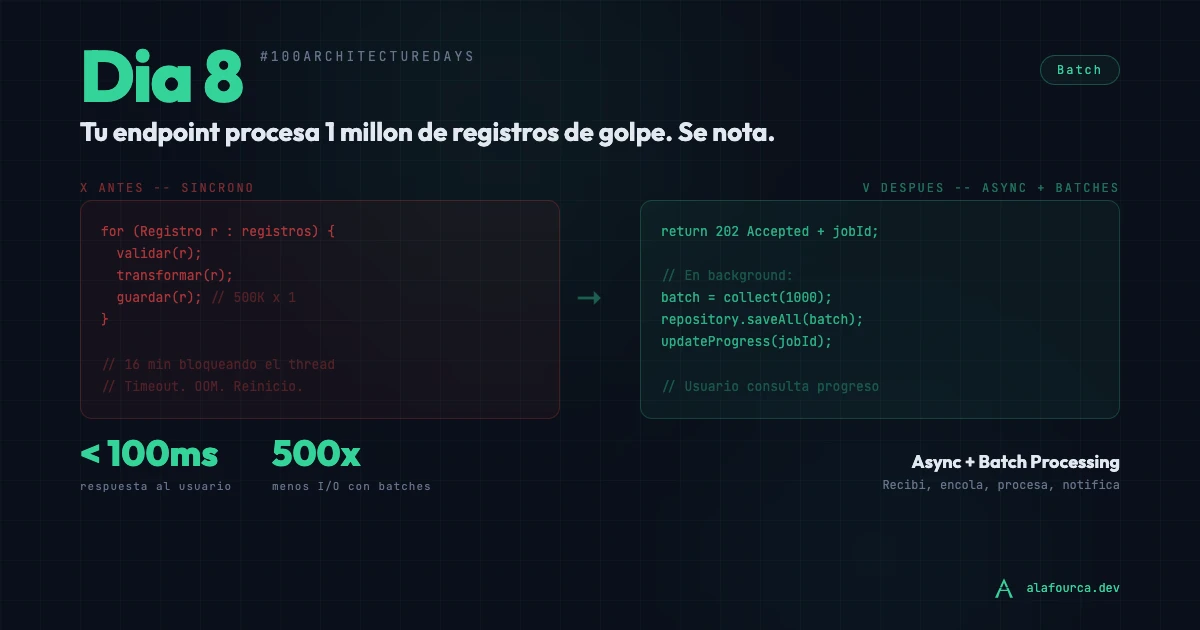
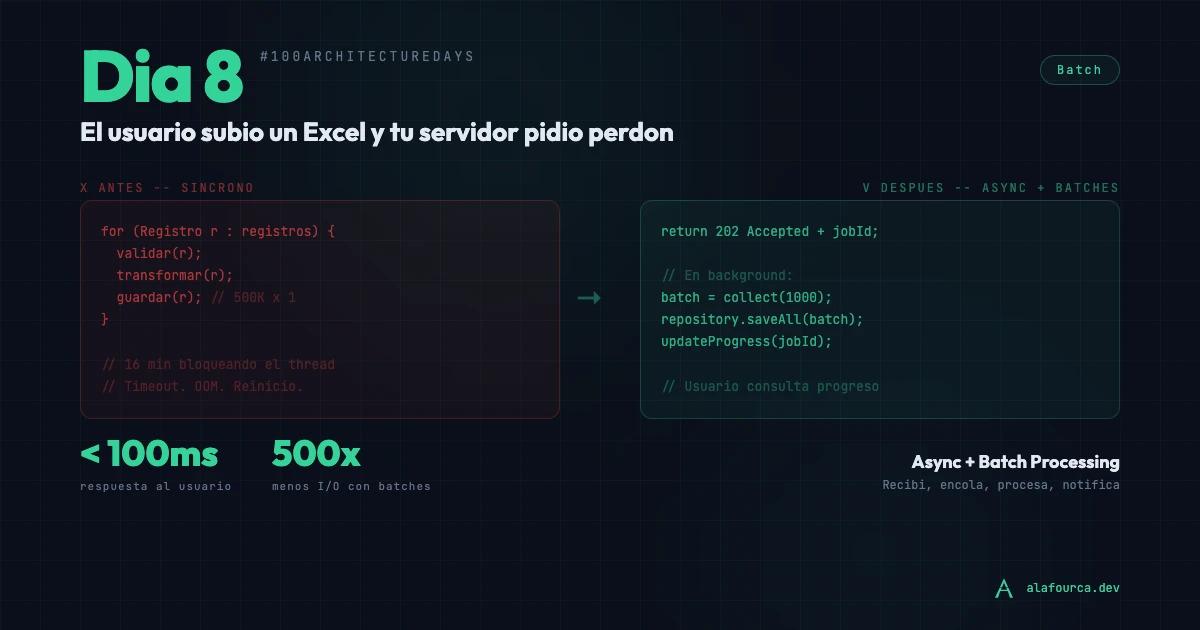
Update Day 8 title and cover image

Changed region(s): [[0.0617, 0.181, 0.6475, 0.2413]]

diff --git a/src/content/blog/batch-processing-spring.md b/src/content/blog/batch-processing-spring.md
@@ -1,5 +1,5 @@
 ---
-title: "Día 8: Tu endpoint procesa 1 millón de registros de golpe. Se nota."
+title: "Día 8: El usuario subió un Excel y tu servidor pidió perdón"
 description: "HTTP no fue diseñado para operaciones de minutos. Batch processing, async patterns y cómo dejar de torturar a tus usuarios. Día 8 de #100ArchitectureDays."
 tags: ["Java", "Spring Boot", "Architecture", "100ArchitectureDays"]
 date: 2026-04-08